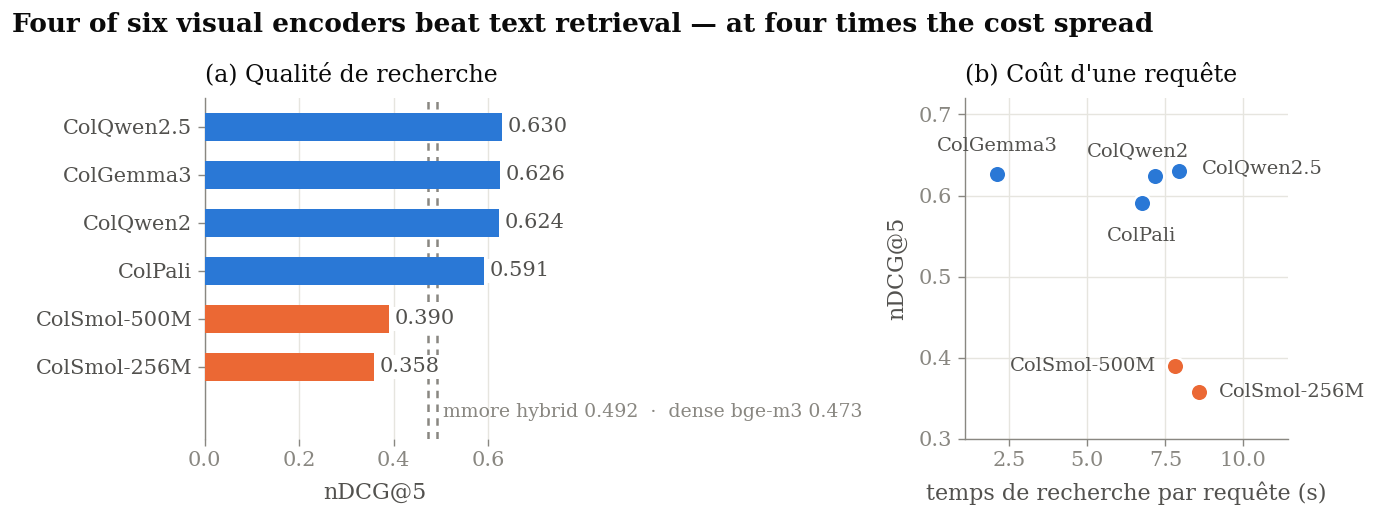
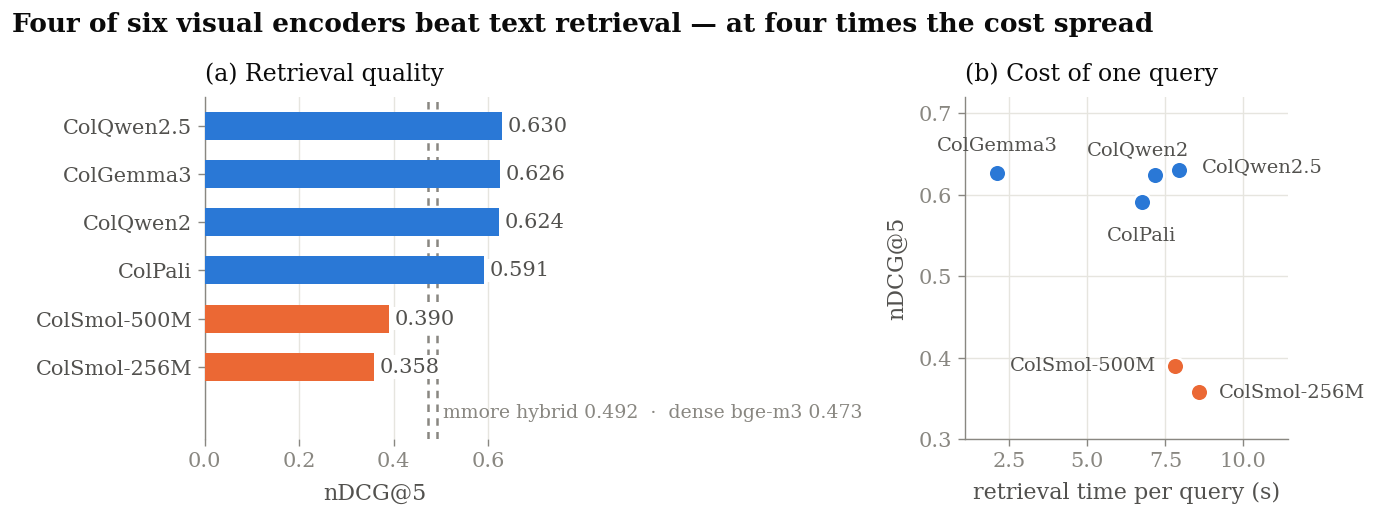
Render the figures in both languages
The same three figures go into a French report and an English README, but
their axis labels, titles and annotations were French in both, so the README
showed English headlines over French axes.

Strings now go through t() and numbers through num(), which also switches the
decimal separator, and main() renders the set once per language: French to the
report PDFs, English to the README PNGs.

diff --git a/scripts/make_figures.py b/scripts/make_figures.py
@@ -40,6 +40,31 @@ SMALL = {"colsmol_256m", "colsmol_500m"}
 LANG_LABELS = {"en": "EN", "fr": "FR", "zh": "ZH", "de": "DE", "es": "ES"}
 VIDORE_LANG_LABELS = {"english": "EN", "french": "FR", "german": "DE", "spanish": "ES"}
 
+# The same figures serve two documents in two languages: the French report
+# (vector PDF) and the English README (raster PNG). Every string a reader sees
+# goes through t(), and every number through num(), which switches the decimal
+# separator with it. Rendering happens once per language, see main().
+LANG = "fr"
+STRINGS = {
+    "quality": {"fr": "(a) Qualité de recherche", "en": "(a) Retrieval quality"},
+    "cost": {"fr": "(b) Coût d'une requête", "en": "(b) Cost of one query"},
+    "cost_axis": {"fr": "temps de recherche par requête (s)",
+                  "en": "retrieval time per query (s)"},
+    "query_lang_axis": {"fr": "langue de la requête", "en": "query language"},
+    "big_four": {"fr": "4 gros encodeurs", "en": "4 large encoders"},
+    "colsmol": {"fr": "ColSmol", "en": "ColSmol"},
+}
+
+
+def t(key: str) -> str:
+    return STRINGS[key][LANG]
+
+
+def num(value: float, digits: int) -> str:
+    """Format a number for the current language (French uses a decimal comma)."""
+    out = f"{value:.{digits}f}"
+    return out.replace(".", ",") if LANG == "fr" else out
+
 # Light-surface values from the reference palette; slots 1 and 2 clear every
 # all-pairs gate (worst CVD dE 24.7, normal-vision 33.6).
 BLUE = "#2a78d6"
@@ -103,15 +128,21 @@ def bare(ax, *, grid_axis: str | None = "y", keep=("left", "bottom")) -> None:
 
 
 def save(fig, stem: str, title: str) -> None:
-    PDF_DIR.mkdir(parents=True, exist_ok=True)
-    PNG_DIR.mkdir(parents=True, exist_ok=True)
-    fig.savefig(PDF_DIR / f"{stem}.pdf", bbox_inches="tight", pad_inches=0.02)
-    # The PNG stands alone in the README, with no LaTeX caption to name it.
-    fig.suptitle(title, fontsize=9.5, fontweight="bold", color=INK,
-                 x=0.0, y=1.05, ha="left")
-    fig.savefig(PNG_DIR / f"{stem}.png", dpi=200, bbox_inches="tight", pad_inches=0.06)
+    if LANG == "fr":
+        # The report names its figures in a LaTeX caption, so no title here.
+        PDF_DIR.mkdir(parents=True, exist_ok=True)
+        fig.savefig(PDF_DIR / f"{stem}.pdf", bbox_inches="tight", pad_inches=0.02)
+        written = f"{stem}.pdf"
+    else:
+        # The PNG stands alone in the README, with no caption to name it.
+        PNG_DIR.mkdir(parents=True, exist_ok=True)
+        fig.suptitle(title, fontsize=9.5, fontweight="bold", color=INK,
+                     x=0.0, y=1.05, ha="left")
+        fig.savefig(PNG_DIR / f"{stem}.png", dpi=200, bbox_inches="tight",
+                    pad_inches=0.06)
+        written = f"{stem}.png"
     plt.close(fig)
-    print(f"wrote {stem}.pdf / {stem}.png")
+    print(f"wrote {written}")
 
 
 # --- Figure 1: quality and cost on the biomedical lecture corpus -------------
@@ -132,13 +163,13 @@ def fig_quality_and_cost() -> None:
     ax1.barh(ys, [scores[m] for m in order], height=0.58,
              color=[colour(m) for m in order], zorder=3)
     for y, m in zip(ys, order):
-        ax1.text(scores[m] + 0.012, y, f"{scores[m]:.3f}", va="center",
+        ax1.text(scores[m] + 0.012, y, num(scores[m], 3), va="center",
                  fontsize=7.5, color=INK_2, zorder=5,
                  bbox=dict(facecolor="white", edgecolor="none", pad=0.8))
     for label, value in text.items():
         ax1.axvline(value, color=MUTED, linewidth=0.9, linestyle=(0, (3, 2.5)), zorder=2)
     ax1.text(max(text.values()) + 0.012, -0.95,
-             "  ·  ".join(f"{label} {value:.3f}"
+             "  ·  ".join(f"{label} {num(value, 3)}"
                           for label, value in sorted(text.items(), key=lambda kv: -kv[1])),
              fontsize=6.8, color=MUTED, va="center")
     ax1.set_yticks(list(ys))
@@ -146,7 +177,7 @@ def fig_quality_and_cost() -> None:
     ax1.set_ylim(-1.5, len(order) - 0.4)
     ax1.set_xlim(0, 0.72)
     ax1.set_xlabel("nDCG@5")
-    ax1.set_title("(a) Qualité de recherche", loc="left", color=INK, pad=6)
+    ax1.set_title(t("quality"), loc="left", color=INK, pad=6)
     bare(ax1, grid_axis="x", keep=("left",))
 
     # (b) the same six models, quality against what a query costs.
@@ -167,9 +198,9 @@ def fig_quality_and_cost() -> None:
     span = max(costs.values()) - min(costs.values())
     ax2.set_xlim(min(costs.values()) - 0.16 * span, max(costs.values()) + 0.44 * span)
     ax2.set_ylim(0.30, 0.72)
-    ax2.set_xlabel("temps de recherche par requête (s)")
+    ax2.set_xlabel(t("cost_axis"))
     ax2.set_ylabel("nDCG@5")
-    ax2.set_title("(b) Coût d'une requête", loc="left", color=INK, pad=6)
+    ax2.set_title(t("cost"), loc="left", color=INK, pad=6)
     bare(ax2, grid_axis="both")
 
     fig.tight_layout(w_pad=2.4)
@@ -191,14 +222,14 @@ def fig_query_language() -> None:
         ax.plot(range(len(steps)), ys, marker="o", markersize=3.8, linewidth=1.4,
                 color=colour(m), zorder=3, markeredgecolor="white",
                 markeredgewidth=0.7, clip_on=False)
-    ax.annotate("4 gros encodeurs", (0.04, 0.665), fontsize=7.5, color=BLUE)
-    ax.annotate("ColSmol", (0.72, 0.215), fontsize=7.5, color=ORANGE)
+    ax.annotate(t("big_four"), (0.04, 0.665), fontsize=7.5, color=BLUE)
+    ax.annotate(t("colsmol"), (0.72, 0.215), fontsize=7.5, color=ORANGE)
     ax.set_xticks(range(len(steps)))
     ax.set_xticklabels([VIDORE_LANG_LABELS[s] for s in steps], color=INK_2)
     ax.set_xlim(-0.08, len(steps) - 0.92)
     ax.set_ylim(0, 0.72)
     ax.set_ylabel("nDCG@5")
-    ax.set_xlabel("langue de la requête")
+    ax.set_xlabel(t("query_lang_axis"))
     bare(ax)
     save(fig, "query_language",
          "Only the small encoders lose the query language")
@@ -227,7 +258,7 @@ def fig_multilingual_heatmap() -> None:
                                        edgecolor="white", linewidth=1.6, zorder=2))
             r, g, b, _ = cmap(norm(v))
             luminance = 0.2126 * r + 0.7152 * g + 0.0722 * b
-            ax.text(j, i, f"{v:.2f}", ha="center", va="center", fontsize=7.2,
+            ax.text(j, i, num(v, 2), ha="center", va="center", fontsize=7.2,
                     zorder=3, color="white" if luminance < 0.45 else INK)
 
     ax.set_xticks(range(len(LANGS)))
@@ -250,9 +281,11 @@ def fig_multilingual_heatmap() -> None:
 
 
 def main() -> None:
-    fig_quality_and_cost()
-    fig_query_language()
-    fig_multilingual_heatmap()
+    global LANG
+    for LANG in ("fr", "en"):
+        fig_quality_and_cost()
+        fig_query_language()
+        fig_multilingual_heatmap()
 
 
 if __name__ == "__main__":
